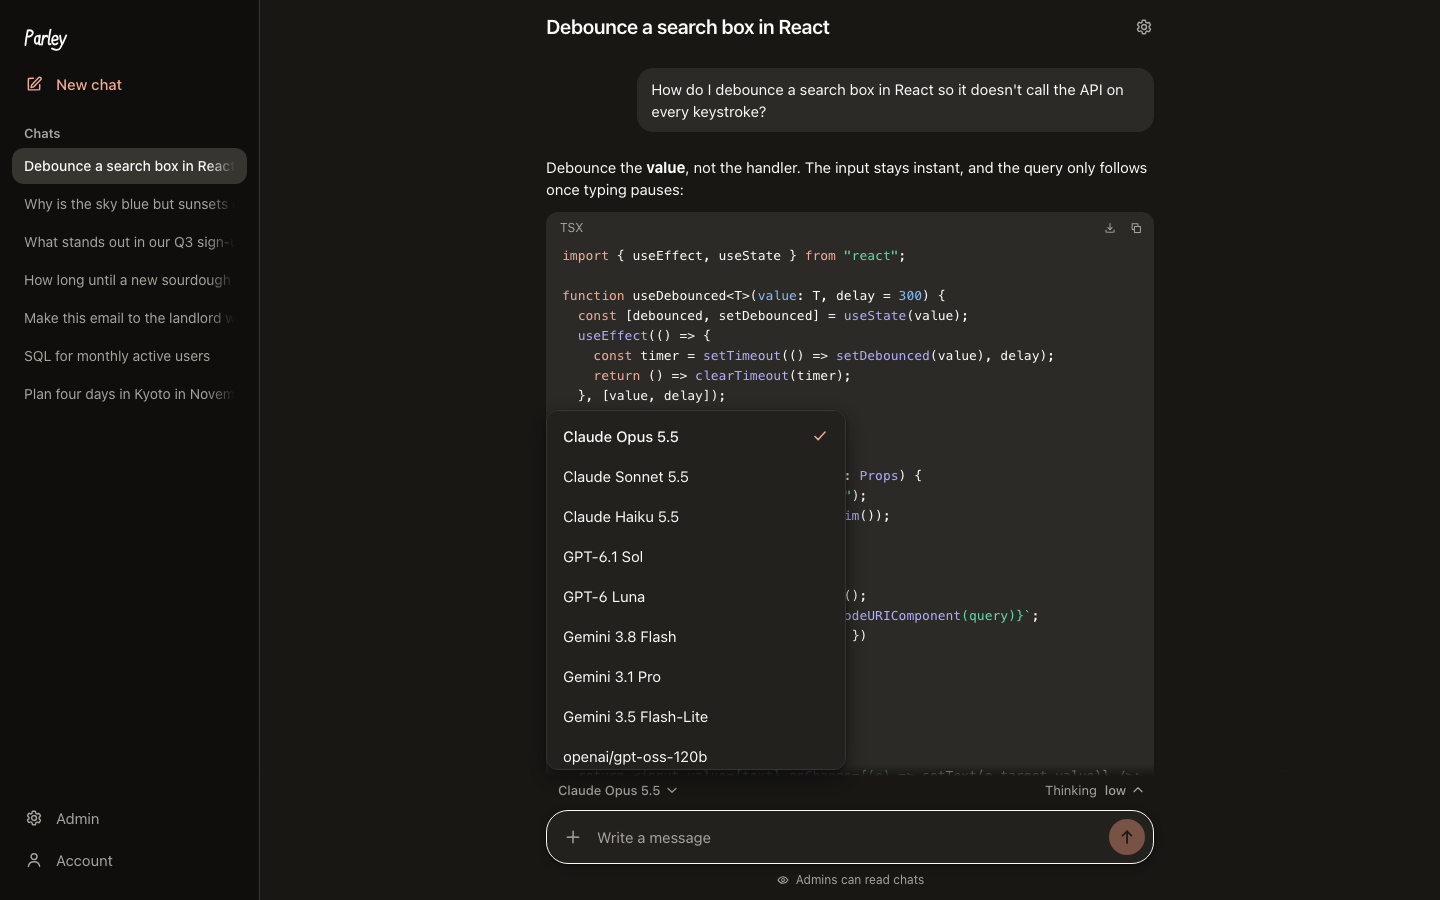
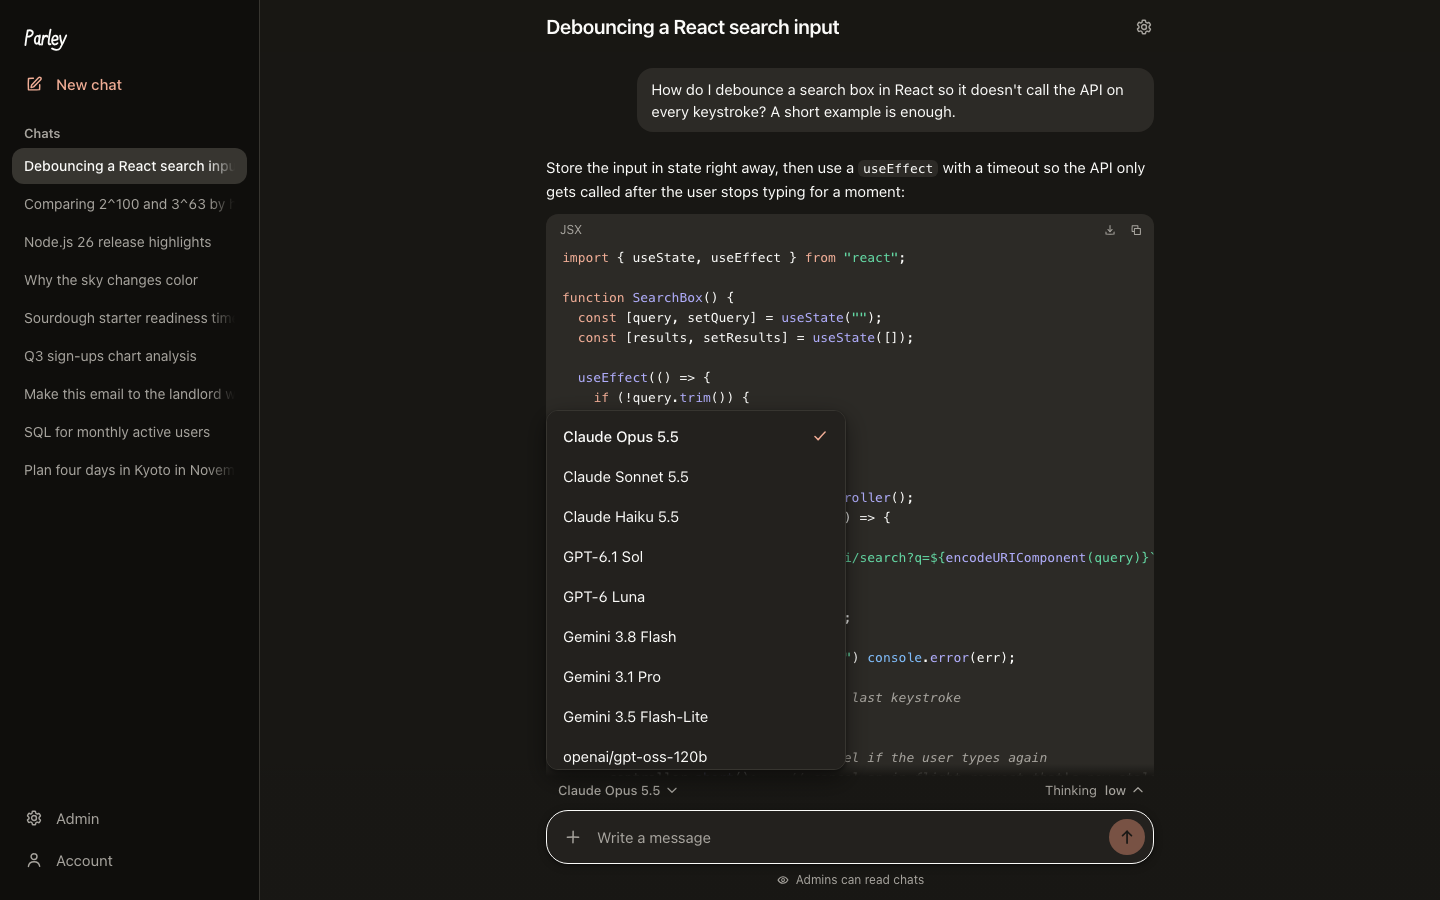
Use real Claude replies in the chat screenshots
The chat screenshots now show replies Claude actually wrote: the React
code answer, a Node.js question answered with web search citations,
thinking on a 2^100 versus 3^63 comparison, and a chart and CSV it made
with code. The admin screenshots keep the made-up usage data. Alt text
in both READMEs follows the new chats.

diff --git a/README.md b/README.md
@@ -9,12 +9,12 @@ Vite + React on the front, Hono on Node behind it, SQLite (Node's built-in `node
 ## Screenshots
 
 <p align="center">
-  <img src="docs/screenshots/chat-light.webp" width="76%" alt="A chat in Parley: a question about debouncing a React search box, answered with a TypeScript code block, and the model picker open on Claude, OpenAI, Gemini and OpenRouter models">
-  <img src="docs/screenshots/chat-phone.webp" width="22%" alt="Parley on a phone: a reply about sourdough starters with numbered web search citations">
+  <img src="docs/screenshots/chat-light.webp" width="76%" alt="A chat in Parley: a question about debouncing a React search box, answered with a JSX code block, and the model picker open on Claude, OpenAI, Gemini and OpenRouter models">
+  <img src="docs/screenshots/chat-phone.webp" width="22%" alt="Parley on a phone: a reply about the latest Node.js release, with numbered web search citations">
 </p>
 <p align="center">
   <img src="docs/screenshots/chat-files.webp" width="49%" alt="A reply that made files: a redrawn sign-ups chart and a CSV of the numbers, as cards to download">
-  <img src="docs/screenshots/chat-thinking.webp" width="49%" alt="A reply with the model's thinking unfolded above it">
+  <img src="docs/screenshots/chat-thinking.webp" width="49%" alt="A reply with the model's thinking unfolded above it, working out whether 2^100 or 3^63 is bigger">
 </p>
 <p align="center">
   <img src="docs/screenshots/chat-dark.webp" width="49%" alt="The React chat from the first screenshot, in dark mode">

diff --git a/README.zh-CN.md b/README.zh-CN.md
@@ -9,12 +9,12 @@
 ## 截图
 
 <p align="center">
-  <img src="docs/screenshots/chat-light.webp" width="76%" alt="Parley 里的一个聊天：问怎样给 React 搜索框做防抖，回复里有一段 TypeScript 代码，模型选择器展开着，列出 Claude、OpenAI、Gemini 和 OpenRouter 的模型">
-  <img src="docs/screenshots/chat-phone.webp" width="22%" alt="手机上的 Parley：一条关于酸面团酵种的回复，带编号的联网搜索来源">
+  <img src="docs/screenshots/chat-light.webp" width="76%" alt="Parley 里的一个聊天：问怎样给 React 搜索框做防抖，回复里有一段 JSX 代码，模型选择器展开着，列出 Claude、OpenAI、Gemini 和 OpenRouter 的模型">
+  <img src="docs/screenshots/chat-phone.webp" width="22%" alt="手机上的 Parley：一条关于最新 Node.js 版本的回复，带编号的联网搜索来源">
 </p>
 <p align="center">
   <img src="docs/screenshots/chat-files.webp" width="49%" alt="生成了文件的回复：重画的注册量图表和一份 CSV 数据，以卡片形式供下载">
-  <img src="docs/screenshots/chat-thinking.webp" width="49%" alt="回复上方展开了模型的思考过程">
+  <img src="docs/screenshots/chat-thinking.webp" width="49%" alt="回复上方展开了模型的思考过程：不用计算器比较 2^100 和 3^63 哪个大">
 </p>
 <p align="center">
   <img src="docs/screenshots/chat-dark.webp" width="49%" alt="深色模式下的第一张截图里那个 React 聊天">
